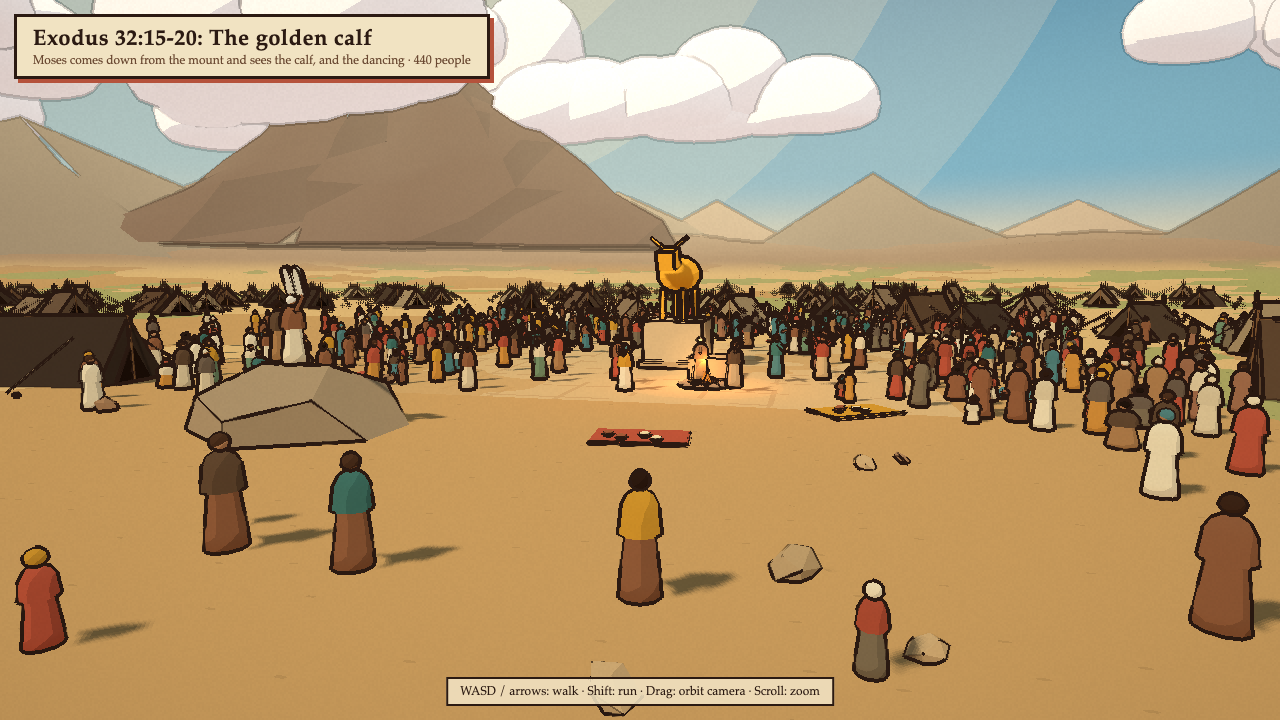
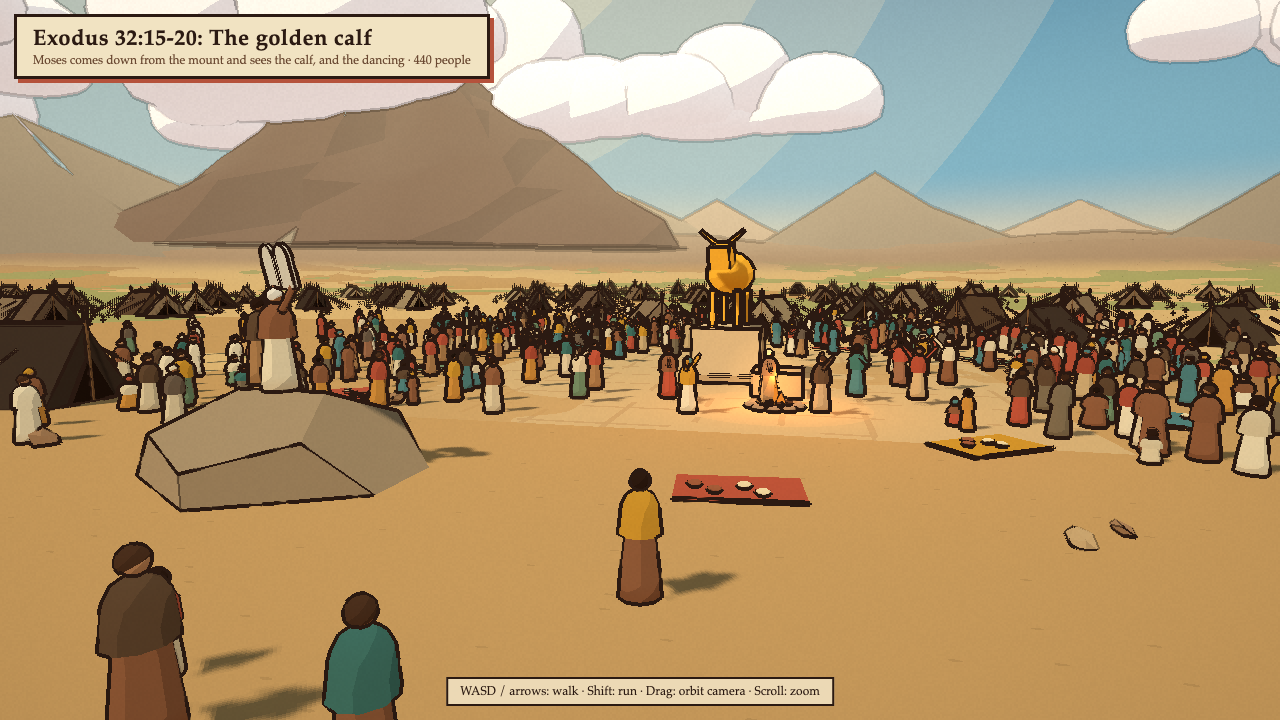
feat: polish toon scenes ot-19 to ot-24

diff --git a/styles/toon/scenes/lib/ot-19-kit.js b/styles/toon/scenes/lib/ot-19-kit.js
@@ -584,19 +584,58 @@ export function lightning(ctx, { top, bottom, count = 3, color = '#fff6d0', ligh
   });
 }
 
-// A figure lying down, propped up by `prop` radians. Head points along `dir` (radians around Y).
-export function lying(ctx, { pos, dir = 0, colors, prop = 0.3 }) {
+const limb = (from, to, r) => {
+  const d = new THREE.Vector3().subVectors(to, from);
+  const g = new THREE.CapsuleGeometry(r, Math.max(0.01, d.length() - r * 2), 4, 8);
+  g.applyQuaternion(new THREE.Quaternion().setFromUnitVectors(new THREE.Vector3(0, 1, 0), d.normalize()));
+  return g.translate((from.x + to.x) / 2, (from.y + to.y) / 2, (from.z + to.z) / 2);
+};
+
+// A person lying on the ground, head toward `toward`. Propped figures rise on one elbow and reach out with the other hand.
+export function lying(b, ctx, { pos, toward, colors, propped = true, lift = 0.5, reach = 0.6, seed = 1 }) {
   const [x, z] = pos;
-  const g = new THREE.Group();
-  const fig = makeFigure(colors, ctx.kit);
-  fig.rotation.x = -Math.PI / 2 + prop;
-  fig.position.y = 0.24;
-  g.add(fig);
-  g.position.set(x, ctx.terrainHeight(x, z), z);
-  g.rotation.y = dir + Math.PI;
-  ctx.scene.add(g);
-  ctx.exclude({ kind: 'circle', x, z, r: 1.2 });
-  return g;
+  const y = ctx.terrainHeight(x, z);
+  const frame = frameAt(x, y, z, Math.atan2(toward[0] - x, toward[1] - z));
+  const side = seed % 2 ? 1 : -1;
+  const tilt = propped ? lift : 0.12;
+  const torso = new THREE.Matrix4().makeTranslation(0, 0.16, 0).multiply(new THREE.Matrix4().makeRotationX(-tilt));
+  const at = (px, py, pz) => new THREE.Vector3(px, py, pz).applyMatrix4(torso);
+  const put = (color, geo, m = null) => b.add(color, m ? geo.applyMatrix4(m) : geo, { frame });
+
+  // Legs under the robe, with the hem pooling on the ground.
+  put(colors.robe, ball(1, [0, 0.16, -0.5], [0.24, 0.17, 0.6]));
+  put(colors.robe, ball(1, [side * 0.04, 0.05, -0.7], [0.29, 0.07, 0.48]));
+  for (const s of [-1, 1]) put(colors.skin, ball(0.065, [s * 0.09, 0.07, -1.12], [1, 0.8, 1.5], 8));
+
+  // Torso, mantle over the shoulders, head lifted toward the pole.
+  put(colors.robe, ball(1, [0, 0, 0.3], [0.24, 0.15, 0.36]), torso);
+  put(colors.mantle, ball(1, [0, 0.02, 0.48], [0.29, 0.17, 0.22]), torso);
+  put(colors.mantle, ball(1, [0, -0.04, 0.2], [0.3, 0.08, 0.36]), torso);
+  if (colors.sash) put(colors.sash, xf(new THREE.TorusGeometry(0.2, 0.03, 5, 14), { pos: [0, 0, 0.05], scale: [1.05, 0.7, 1] }), torso);
+  const neck = at(0, 0.02, 0.62);
+  const head = new THREE.Vector3(neck.x, neck.y + 0.1 + (propped ? 0 : 0.06), neck.z + 0.1);
+  put(colors.skin, ball(0.13, head.toArray(), [1, 1, 1], 10));
+  put(colors.hair, xf(new THREE.SphereGeometry(0.142, 10, 7, 0, Math.PI * 2, 0, Math.PI * 0.58), { pos: [head.x, head.y + 0.01, head.z - 0.02], rot: [-1.0, 0, 0] }));
+
+  // One arm bears the weight, the other reaches toward the serpent.
+  const shoulderA = at(side * 0.24, 0.02, 0.5);
+  const shoulderB = at(-side * 0.24, 0.02, 0.5);
+  if (propped) {
+    const elbow = new THREE.Vector3(shoulderA.x + side * 0.06, 0.07, shoulderA.z + 0.02);
+    put(colors.mantle, limb(shoulderA, elbow, 0.07));
+    const hand = new THREE.Vector3(elbow.x - side * 0.04, 0.06, elbow.z + 0.34);
+    put(colors.mantle, limb(elbow, hand, 0.06));
+    put(colors.skin, ball(0.055, hand.toArray(), [1, 0.8, 1.2], 8));
+  } else {
+    const hand = new THREE.Vector3(shoulderA.x + side * 0.14, 0.06, shoulderA.z - 0.45);
+    put(colors.mantle, limb(shoulderA, hand, 0.065));
+    put(colors.skin, ball(0.055, hand.toArray(), [1, 1, 1], 8));
+  }
+  const out = new THREE.Vector3(-side * 0.08, Math.sin(reach), Math.cos(reach)).normalize().multiplyScalar(0.58);
+  const hand = shoulderB.clone().add(out);
+  put(colors.mantle, limb(shoulderB, hand, 0.065));
+  put(colors.skin, ball(0.058, hand.toArray(), [1, 1, 1], 8));
+  ctx.exclude({ kind: 'circle', x, z, r: 1.3 });
 }
 
 export function sheep(b, ctx, { pos, rot = 0, color = '#ece4d2', face = '#3a2a20' }) {

diff --git a/styles/toon/scenes/ot-19.js b/styles/toon/scenes/ot-19.js
@@ -37,8 +37,10 @@ function custom(ctx) {
   }
   // Moses speaks from a low outcrop.
   const ry = ctx.terrainHeight(...MOSES_AT);
-  b.add('#b89070', new THREE.DodecahedronGeometry(2.4, 0).scale(1.3, 0.45, 1).translate(MOSES_AT[0] - 0.8, ry, MOSES_AT[1] - 0.3));
-  ctx.addCollider({ x: MOSES_AT[0] - 0.8, z: MOSES_AT[1] - 0.3, hx: 2.6, hz: 1.9, rot: 0, top: ry + 0.95, walkable: true });
+  const top = ry + 1.9;
+  b.add('#b89070', new THREE.DodecahedronGeometry(2.4, 0).scale(1.4, 0.5, 1.1).translate(MOSES_AT[0] - 0.8, ry, MOSES_AT[1] - 0.3));
+  b.add('#c9a27e', new THREE.CylinderGeometry(2.1, 2.6, 1.9, 7).translate(MOSES_AT[0] - 0.8, ry + 0.95, MOSES_AT[1] - 0.3));
+  ctx.addCollider({ x: MOSES_AT[0] - 0.8, z: MOSES_AT[1] - 0.3, hx: 2.8, hz: 2.2, rot: 0, top, walkable: true });
   b.flush();
 
   // The bread itself: white flakes over the open ground and between the tents.
@@ -47,8 +49,8 @@ function custom(ctx) {
 
   addSun(ctx, { dir: [0.9, 0.12, -0.25], size: 70, color: '#fff0d0', halo: '#ffc890' });
 
-  person(ctx, { pos: MOSES_AT, y: ry + 0.95, face: [0, 14], scale: 1.1, colors: { ...MOSES, arms: [0.5, 1.1] } });
-  person(ctx, { pos: [MOSES_AT[0] - 1.8, MOSES_AT[1] - 0.6], y: ry + 0.95, face: [0, 14], scale: 1.05, colors: AARON });
+  person(ctx, { pos: MOSES_AT, y: top, face: [0, 14], scale: 1.3, colors: { ...MOSES, arms: [0.5, 1.1] } });
+  person(ctx, { pos: [MOSES_AT[0] - 1.8, MOSES_AT[1] - 0.6], y: top, face: [0, 14], scale: 1.2, colors: AARON });
   person(ctx, { pos: [2.2, 4.5], face: [0, 14], scale: 0.62, colors: { robe: '#c98b3c', mantle: '#e6d8b8', skin: '#a87650', hair: '#2b1a12', arms: [0.3, 1.3] } });
 }
 
@@ -80,12 +82,12 @@ export default {
     keepClear: [{ kind: 'circle', x: MOSES_AT[0], z: MOSES_AT[1], r: 3 }],
     groups: [
       { shape: 'rect', center: [0, -8], size: [56, 62], count: 170, kneel: 0.6, children: 0.15, facingJitter: 6, lean: 0.4 },
-      { center: MOSES_AT, radius: [3.2, 7], angle: [-1.6, 1.6], count: 26, children: 0.1, facingJitter: 0.4 },
+      { center: MOSES_AT, radius: [3.6, 7], angle: [-1.6, 1.6], count: 26, children: 0.1, facingJitter: 0.4 },
       { center: [0, -8], radius: [36, 70], count: 160, kneel: 0.4, children: 0.15, facingJitter: 6, lean: 0.3 },
     ],
   },
   player: {
-    start: [0, 16],
+    start: [-2.7, -8],
     lookAt: [MOSES_AT[0], MOSES_AT[1]],
     colors: { robe: '#8c5a3c', mantle: '#c8912e', skin: '#a8724a', hair: '#2b1a12', sash: '#4f7f80' },
   },

diff --git a/styles/toon/scenes/ot-23.js b/styles/toon/scenes/ot-23.js
@@ -54,22 +54,21 @@ function custom(ctx) {
   }
 
   camp(b, ctx, { center: POLE, ring: [30, 160], count: 280, seed: 231, keepOut: [{ kind: 'rect', x: 0, z: 30, hx: 8, hz: 16 }] });
-  b.flush();
-
   glow(ctx, { pos: [POLE[0], top + 5.4, POLE[1]], size: 5, color: '#ffd080', opacity: 0.5, pulse: 0.06 });
 
-  person(ctx, { pos: [POLE[0] - 1.6, POLE[1] + 0.8], y: top, face: [0, 14], scale: 1.12, colors: { ...MOSES, arms: [0.35, 2.3] } });
+  person(ctx, { pos: [POLE[0] - 1.6, POLE[1] + 0.8], y: top, face: [0, 14], scale: 1.3, colors: { ...MOSES, arms: [0.35, 2.3] } });
 
-  // The bitten, lying about the rise and lifting their heads to look upon the serpent.
+  // The bitten, lying about the rise. Some still lie flat, most raise themselves to look upon the serpent.
   const pal = PALETTE;
-  for (let i = 0; i < 30; i++) {
-    const a = (i / 30) * Math.PI * 2 + rng() * 0.2;
-    const r = 5.5 + rng() * 8;
+  for (let i = 0; i < 34; i++) {
+    const a = (i / 34) * Math.PI * 2 + rng() * 0.2;
+    const r = 5.6 + rng() * 8;
     const x = POLE[0] + Math.sin(a) * r, z = POLE[1] + Math.cos(a) * r;
-    if (ctx.blocked(x, z, 0.4) || (Math.abs(x) < 2.4 && z > 0)) continue;
-    const colors = { robe: pal.robes[i % pal.robes.length], mantle: pal.mantles[(i * 5) % pal.mantles.length], skin: pal.skins[i % pal.skins.length], hair: pal.hair[i % 4], arms: [0.5, 0.2] };
-    lying(ctx, { pos: [x, z], dir: Math.atan2(x - POLE[0], z - POLE[1]), colors, prop: 0.18 + rng() * 0.12 });
+    if (ctx.blocked(x, z, 0.6) || (Math.abs(x) < 2.6 && z > -5)) continue;
+    const colors = { robe: pal.robes[i % pal.robes.length], mantle: pal.mantles[(i * 5) % pal.mantles.length], skin: pal.skins[i % pal.skins.length], hair: pal.hair[i % 4] };
+    lying(b, ctx, { pos: [x, z], toward: POLE, colors, propped: rng() < 0.7, lift: 0.45 + rng() * 0.35, reach: 0.4 + rng() * 0.6, seed: i });
   }
+  b.flush();
 }
 
 export default {
@@ -102,7 +101,7 @@ export default {
     ],
   },
   player: {
-    start: [0, 9],
+    start: [0, 1.5],
     lookAt: POLE,
     colors: { robe: '#8c5a3c', mantle: '#c8912e', skin: '#a8724a', hair: '#2b1a12', sash: '#4f7f80' },
   },

diff --git a/styles/toon/scenes/ot-24.js b/styles/toon/scenes/ot-24.js
@@ -1,5 +1,6 @@
 // Joshua 6:12-20: on the seventh day the priests blow the trumpets, the people shout, and the wall falls down flat.
 // x is east, z is south. Jericho stands north of the player; the procession circles it.
+import { FX_LAYER } from '../engine/renderer.js';
 import { Batch, DAY_STYLE, PALETTE, PRIEST, arkGroup, house, makeRng, palm, shofar } from './lib/ot-19-kit.js';
 import { makeFigure } from '../engine/people.js';
 
@@ -94,18 +95,19 @@ function custom(ctx) {
   b.flush();
 
   // Dust thrown up as the wall falls.
-  const dustN = SIDES * 5;
-  const dust = new THREE.InstancedMesh(new THREE.SphereGeometry(1, 12, 9), ctx.kit.toon('#e2c89c', { emissive: '#5a4630' }), dustN);
+  const dustN = SIDES * 9;
+  const dust = new THREE.InstancedMesh(new THREE.SphereGeometry(1, 12, 9), new THREE.MeshLambertMaterial({ color: '#ecd6ac', emissive: '#806a4c', transparent: true, opacity: 0.45, depthWrite: false }), dustN);
+  dust.layers.set(FX_LAYER);
   dust.frustumCulled = false;
   dust.instanceMatrix.setUsage(THREE.DynamicDrawUsage);
   ctx.scene.add(dust);
   const puffs = [];
   for (const s of segs) {
     if (s.i === RAHAB) continue;
-    for (let k = 0; k < 5; k++) {
+    for (let k = 0; k < 9; k++) {
       const along = (rng() - 0.5) * s.L, out = 2 + rng() * 9;
       const tx = Math.cos(s.yaw), tz = -Math.sin(s.yaw);
-      puffs.push({ seg: s, x: s.mx + tx * along + s.nx * out, z: s.mz + tz * along + s.nz * out, size: 0.9 + rng() * 1.3, ph: rng() * 0.6 });
+      puffs.push({ seg: s, x: s.mx + tx * along + s.nx * out, z: s.mz + tz * along + s.nz * out, size: 0.9 + rng() * 1.2, ph: rng() * 0.6 });
     }
   }
   const m4 = new THREE.Matrix4(), q = new THREE.Quaternion(), v = new THREE.Vector3(), sc = new THREE.Vector3();
@@ -199,8 +201,8 @@ export default {
     ],
   },
   player: {
-    start: [6, 16],
-    lookAt: CITY,
+    start: [4, 9],
+    lookAt: [CITY[0] - 7, CITY[1]],
     colors: { robe: '#7a6a52', mantle: '#b5523b', skin: '#a8724a', hair: '#2b1a12', sash: '#c8912e' },
   },
 };

diff --git a/styles/toon/scenes/ot-21.js b/styles/toon/scenes/ot-21.js
@@ -53,10 +53,10 @@ function custom(ctx) {
   camp(b, ctx, { center: CALF, ring: [24, 150], count: 300, seed: 211, keepOut: [{ kind: 'rect', x: 4, z: 30, hx: 9, hz: 18 }, { kind: 'circle', x: -40, z: -30, r: 20 }] });
   b.flush();
 
-  const moses = person(ctx, { pos: MOSES_AT, y: my + 1.85, face: CALF, scale: 1.12, colors: { ...MOSES, arms: [0.25, 2.75] } });
+  const moses = person(ctx, { pos: MOSES_AT, y: my + 1.85, face: CALF, scale: 1.28, colors: { ...MOSES, arms: [0.25, 2.75] } });
   const t = tablets();
   attach(ctx, moses, t.geo.scale(1.4, 1.4, 1.4), t.color, { pos: [0, 1.7, 0.12], rot: [-0.2, 0, 0] });
-  person(ctx, { pos: [MOSES_AT[0] - 1.5, MOSES_AT[1] - 1.2], y: my + 1.75, face: CALF, scale: 1.05, colors: { robe: '#a87b4f', mantle: '#5e4632', skin: '#9c6a45', hair: '#2b1a12', sash: '#c8912e' } });
+  person(ctx, { pos: [MOSES_AT[0] - 1.5, MOSES_AT[1] - 1.2], y: my + 1.75, face: CALF, scale: 1.18, colors: { robe: '#a87b4f', mantle: '#5e4632', skin: '#9c6a45', hair: '#2b1a12', sash: '#c8912e' } });
 
   // The ring of dancers circling the calf.
   const dancers = [];
@@ -116,8 +116,8 @@ export default {
     ],
   },
   player: {
-    start: [4, 17],
-    lookAt: [-2, -8],
+    start: [1, 13],
+    lookAt: [-3.5, -6],
     colors: { robe: '#8c5a3c', mantle: '#c8912e', skin: '#a8724a', hair: '#2b1a12', sash: '#4f7f80' },
   },
 };

diff --git a/styles/toon/scenes/ot-22.js b/styles/toon/scenes/ot-22.js
@@ -87,7 +87,8 @@ function custom(ctx) {
   pillar(ctx, { pos: [t.x, t.z], lift: t.h, height: 90, radius: 7, color: '#ffe8c4', shade: '#5a3020', fire: true });
   stars(ctx, { count: 500, size: 1.6, minY: 0.35 });
 
-  person(ctx, { pos: [COURT.x + 17, COURT.z + 6], face: [t.x, t.z], scale: 1.1, colors: { ...MOSES, arms: [0.4, 0.9] } });
+  // Moses waits before the gate: he could not enter, for the cloud abode upon the tent.
+  person(ctx, { pos: [COURT.x + COURT.hx + 6.5, COURT.z - 1.8], face: [t.x, t.z], scale: 1.25, colors: { ...MOSES, arms: [0.45, 1.2] } });
   person(ctx, { pos: [COURT.x + 9, COURT.z - 3], face: [t.x, t.z], colors: { ...PRIEST, mantle: '#3a4f9a', sash: '#b5303b' } });
   person(ctx, { pos: [COURT.x + 10, COURT.z + 3.5], face: [al[0], al[1]], colors: PRIEST });
   person(ctx, { pos: [COURT.x + 15, COURT.z - 4], face: [al[0], al[1]], colors: PRIEST });
@@ -124,7 +125,7 @@ export default {
     ],
   },
   player: {
-    start: [56, -13],
+    start: [39, -17.2],
     lookAt: [TENT.x, TENT.z + 4],
     colors: { robe: '#8c5a3c', mantle: '#c8912e', skin: '#a8724a', hair: '#2b1a12', sash: '#4f7f80' },
   },

diff --git a/styles/toon/scenes/ot-20.js b/styles/toon/scenes/ot-20.js
@@ -93,8 +93,8 @@ function custom(ctx) {
   b.flush();
 
   // Moses and Aaron at the bounds, nearest the mount.
-  person(ctx, { pos: [-1, BOUNDS_Z + 4], face: PEAK, scale: 1.1, colors: { ...MOSES, arms: [0.6, 1.4] } });
-  person(ctx, { pos: [-3, BOUNDS_Z + 5], face: PEAK, scale: 1.05, colors: AARON });
+  person(ctx, { pos: [-1, BOUNDS_Z + 4], face: PEAK, scale: 1.25, colors: { ...MOSES, arms: [0.6, 1.4] } });
+  person(ctx, { pos: [-2.6, BOUNDS_Z + 3.6], face: PEAK, scale: 1.15, colors: AARON });
 }
 
 export default {
@@ -132,7 +132,7 @@ export default {
     ],
   },
   player: {
-    start: [0, 26],
+    start: [0.6, -30],
     lookAt: PEAK,
     colors: { robe: '#8c5a3c', mantle: '#c8912e', skin: '#a8724a', hair: '#2b1a12', sash: '#4f7f80' },
   },
